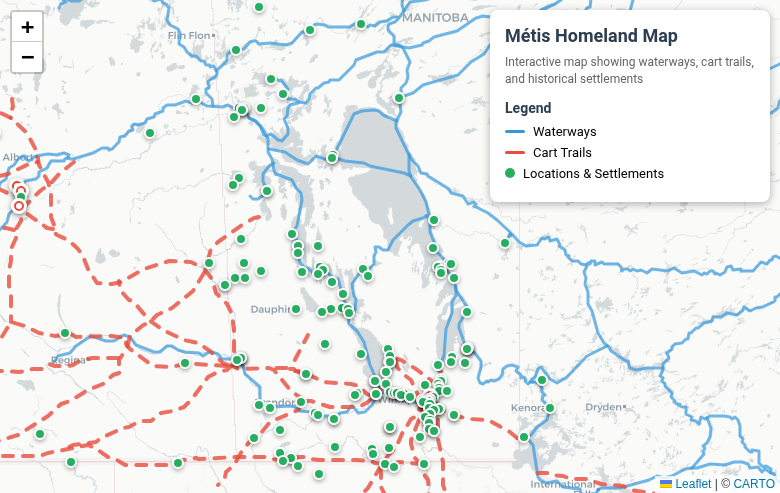
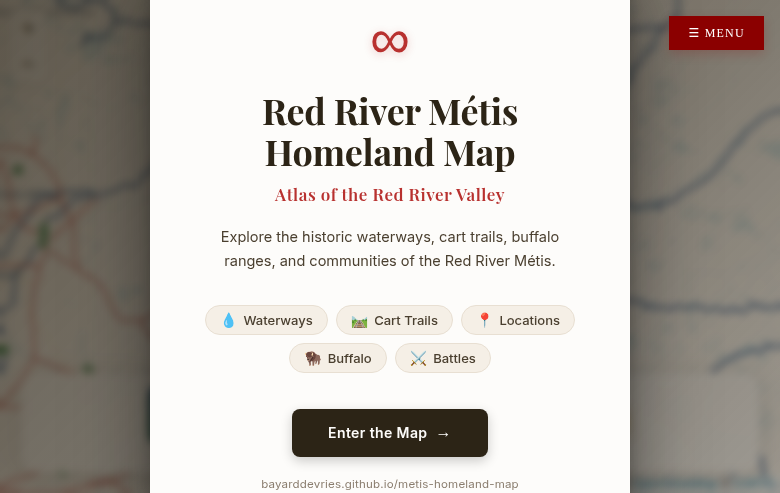
Add live links to projects, RRMNHC to grid, Site by Bayard footer, 404 page, new Homeland Map screenshot

diff --git a/index.html b/index.html
@@ -53,7 +53,7 @@
           <div class="project-thumb">
             <img src="assets/shoebox-v2-homepage.png" alt="Shoebox V2 archive interface" loading="lazy">
           </div>
-          <h3>Shoebox V2</h3>
+          <h3><a href="https://bayarddevries.github.io/shoebox-v2/" target="_blank" rel="noopener">Shoebox V2 ↗</a></h3>
           <p>Built end-to-end: software, metadata architecture, hardware procurement, and training. 302-photo archive with geolocation mapping, family tree browsing, and timeline views.</p>
           <span class="tag">React</span>
           <span class="tag">Leaflet</span>
@@ -63,7 +63,7 @@
           <div class="project-thumb">
             <img src="assets/homeland-map-screenshot.png" alt="Homeland Map visualization" loading="lazy">
           </div>
-          <h3>Homeland Map</h3>
+          <h3><a href="https://bayarddevries.github.io/metis-homeland-map/" target="_blank" rel="noopener">Homeland Map ↗</a></h3>
           <p>Interactive Métis territory visualization with settlement patterns, migration routes, and cultural sites. Buffalo herd overlays and historical transition animations.</p>
           <span class="tag">D3.js</span>
           <span class="tag">GeoJSON</span>
@@ -79,6 +79,16 @@
           <span class="tag">Canvas</span>
           <span class="tag">Pixel Art</span>
         </article>
+        <article class="project-card">
+          <div class="project-thumb project-thumb-placeholder">
+            <span class="placeholder-icon">🏛</span>
+          </div>
+          <h3><a href="https://rrmnhc.ca/" target="_blank" rel="noopener">RRMNHC Site ↗</a></h3>
+          <p>Website for the Red River Métis Nation Heritage Centre. Information about exhibitions, events, and Métis history. Content managed via Contentful CMS.</p>
+          <span class="tag">Next.js</span>
+          <span class="tag">Contentful</span>
+          <span class="tag">Three.js</span>
+        </article>
       </div>
     </section>
   </main>
@@ -89,6 +99,7 @@
       <a href="tel:204-510-3865">204-510-3865</a> · 
       <a href="https://linkedin.com/in/bayard-devries" target="_blank" rel="noopener">LinkedIn</a>
     </p>
+    <p class="site-by">Site by Bayard deVries</p>
     <p>&copy; 2026 Bayard deVries</p>
   </footer>
 </body>

diff --git a/404.html b/404.html
@@ -3,30 +3,57 @@
 <head>
   <meta charset="UTF-8">
   <meta name="viewport" content="width=device-width, initial-scale=1.0">
-  <title>Page Not Found — Bayard de Vries</title>
+  <title>Page Not Found — Bayard deVries</title>
   <link rel="stylesheet" href="styles.css">
+  <style>
+    .error-container {
+      text-align: center;
+      padding: 6rem 1rem;
+      flex: 1;
+      display: flex;
+      flex-direction: column;
+      justify-content: center;
+      align-items: center;
+    }
+    .error-code {
+      font-family: var(--font-heading);
+      font-size: 6rem;
+      font-weight: 300;
+      color: var(--color-brass);
+      line-height: 1;
+      margin-bottom: 1rem;
+      opacity: 0.8;
+    }
+    .error-message {
+      font-size: 1.25rem;
+      color: var(--color-text-muted);
+      margin-bottom: 2rem;
+    }
+    .error-link {
+      color: var(--color-brass);
+      text-decoration: underline;
+    }
+  </style>
 </head>
 <body>
   <header>
     <nav>
       <a href="index.html">Home</a>
-      <a href="about.html">About</a>
       <a href="projects.html">Projects</a>
+      <a href="resume.html">Resume</a>
     </nav>
   </header>
 
-  <main class="page-content">
-    <section class="hero compact">
-      <h1>404</h1>
-      <p class="tagline">Page not found</p>
-      <div class="cta-group">
-        <a href="index.html" class="btn btn-primary">Go Home</a>
-      </div>
-    </section>
+  <main>
+    <div class="error-container">
+      <div class="error-code">404</div>
+      <p class="error-message">Page not found</p>
+      <p><a href="index.html" class="error-link">Return home</a></p>
+    </div>
   </main>
 
   <footer>
-    <p>&copy; 2026 Bayard de Vries</p>
+    <p>&copy; 2026 Bayard deVries</p>
   </footer>
 </body>
 </html>

diff --git a/styles.css b/styles.css
@@ -319,6 +319,38 @@ main {
   transform: scale(1.03);
 }
 
+/* Placeholder thumbnail for projects without screenshots */
+.project-thumb-placeholder {
+  display: flex;
+  align-items: center;
+  justify-content: center;
+  background: var(--color-surface-raised);
+}
+
+.placeholder-icon {
+  font-size: 2.5rem;
+  opacity: 0.6;
+}
+
+/* Project card links */
+.project-card h3 a {
+  color: var(--color-text);
+}
+
+.project-card h3 a:hover {
+  color: var(--color-brass);
+}
+
+/* Site by in footer */
+.site-by {
+  font-size: 0.7rem;
+  color: var(--color-text-muted);
+  opacity: 0.6;
+  margin-top: 0.5rem;
+  font-family: var(--font-heading);
+  letter-spacing: 0.05em;
+}
+
 .project-card h3 {
   font-size: 0.95rem;
   font-weight: 500;
